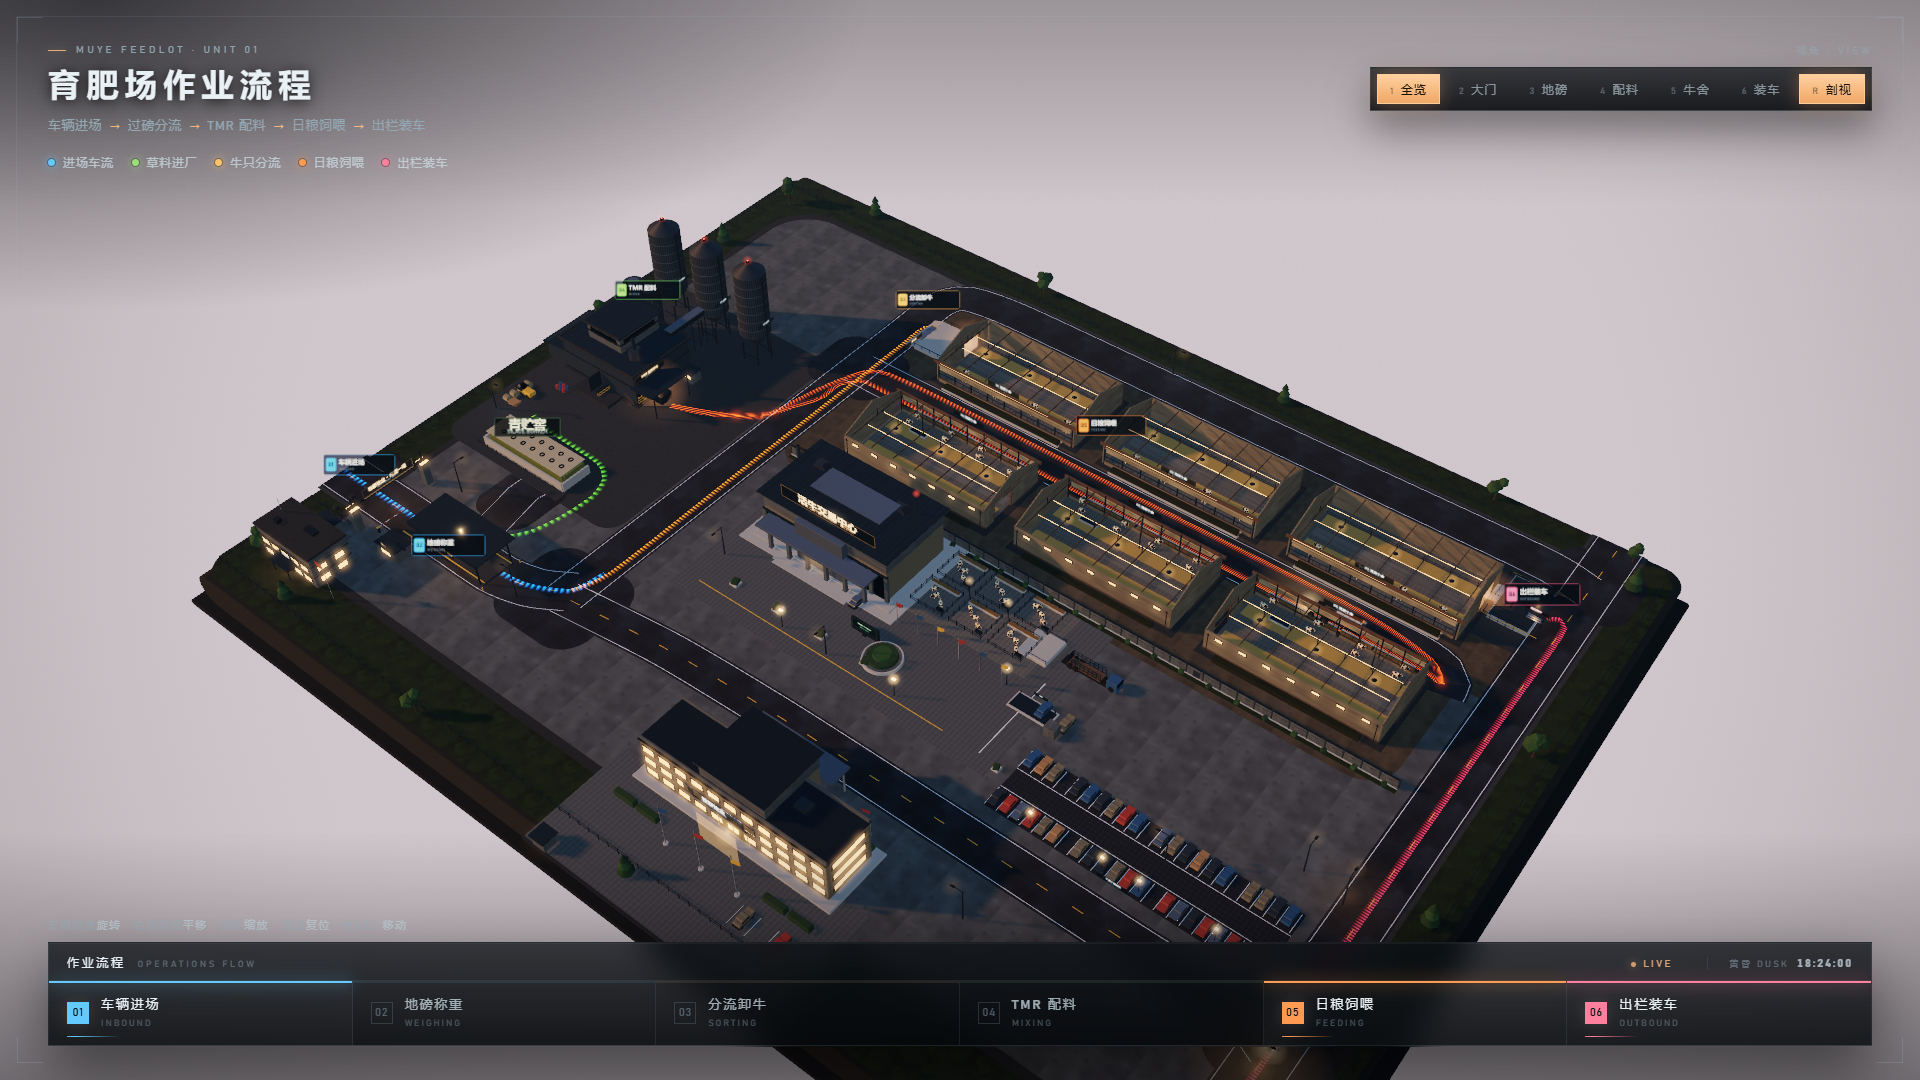
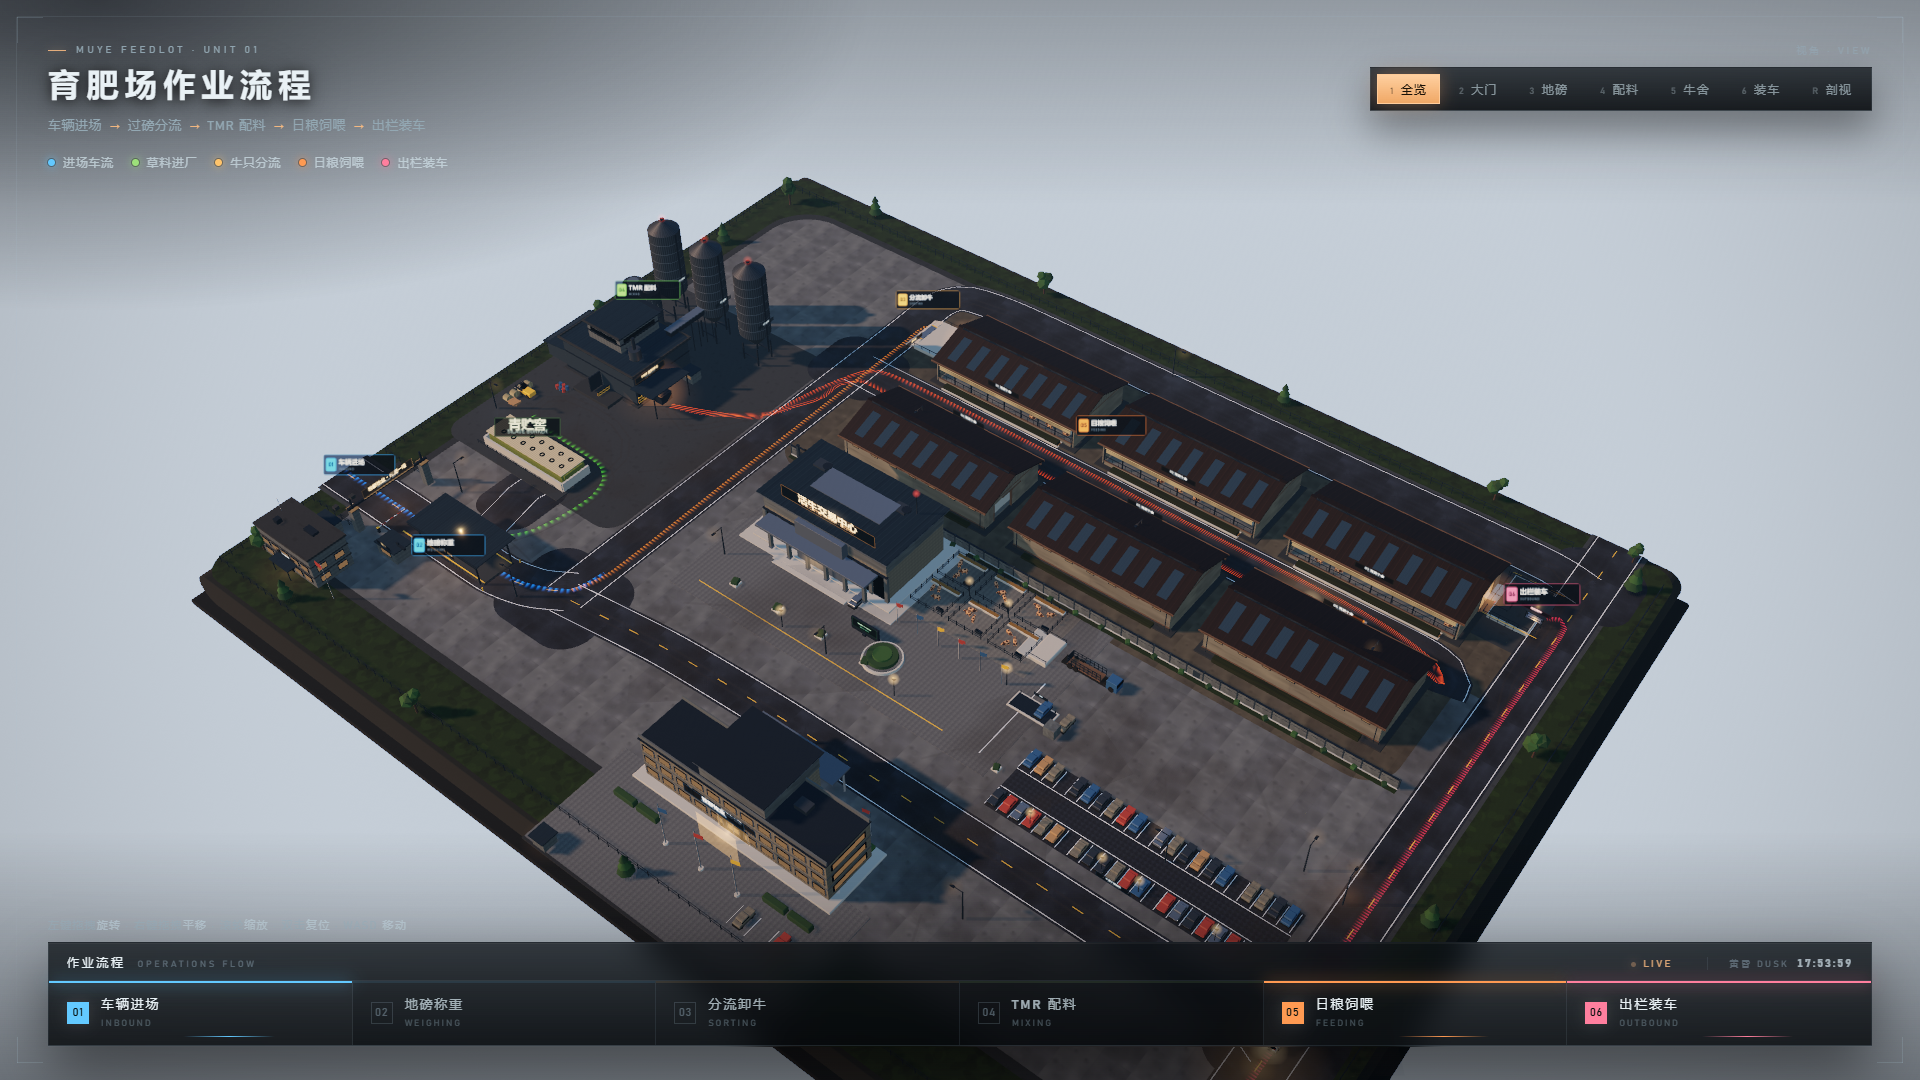
feat: 幽灵屋顶 + 场院使用痕迹
- 剖视改成半透明屋顶（不再是直接隐藏），屋顶仍投影，舍内保持应有的暗度；
  屋顶材质先克隆一份专用，避免影响其他建筑
- 默认盖屋顶（完整建筑群），R / 按钮切换剖视，?cut=1 直接剖视，?roof=1 强制实心
- 场院加脏迹斑块（程序化 canvas）+ 沿车辆路线的轮胎印，地面不再是一块干净水泥板
- 顺手修掉 frame 里引用 try 块内 const 的 ReferenceError（applyCut）

Changed region(s): [[0.125, 0.1833, 0.8125, 0.8556], [0.9375, 0.0611, 0.9688, 0.1222], [0.75, 0.6722, 0.7812, 0.7333]]

diff --git a/js/world.js b/js/world.js
@@ -165,6 +165,14 @@
     M.hay = S({ color: 0x9b8d6a, roughness: 1 });
     // 交易栏圈地面：浅灰垫层，跟黄褐色的牛拉开（原来是黄的，牛也黄，糊成一片）
     M.penPad = S({ map: T.concrete, color: 0xb3b3ad, roughness: 0.95 });
+    M.grunge = new THREE.MeshStandardMaterial({
+      map: T.grunge, transparent: true, opacity: 0.9, roughness: 1, metalness: 0,
+      depthWrite: false, polygonOffset: true, polygonOffsetFactor: -2, polygonOffsetUnits: -2,
+    });
+    M.track = new THREE.MeshStandardMaterial({
+      color: 0x2a251f, transparent: true, opacity: 0.20, roughness: 1, metalness: 0,
+      depthWrite: false, polygonOffset: true, polygonOffsetFactor: -2, polygonOffsetUnits: -2,
+    });
     M.barnPad = S({ map: T.concrete, color: 0xb0aea6, roughness: 0.96 });
     M.barnStraw = S({ color: 0x8d8574, roughness: 1 });
     M.bark = S({ color: 0x3a2c21, roughness: 0.95 });
@@ -229,6 +237,49 @@
     const wb = L.slots.weighbridge;
     for (let i = 0; i < 7; i++) {
       U.box(kit, M.yellow, 3.4, 0.02, 0.34, wb.x - 15, 0.242, wb.z - 6 + i * 2, 0, 0, 0);
+    }
+  }
+
+  // 场院的"使用痕迹"：脏迹斑块 + 轮胎印
+  function buildWear(kit, M, world) {
+    const rand = U.rng(8823);
+    const quad = function (w, d, x, z, rot, mat, y) {
+      const g = new THREE.PlaneGeometry(w, d);
+      g.rotateX(-Math.PI / 2);
+      kit.add(g, mat, U.mat4(x, y, z, 0, rot, 0));
+    };
+
+    // 脏迹：散在牛舍条带与场院里的大块暗斑
+    const spots = [
+      [-60, 8, 44, 30], [10, -6, 52, 34], [70, 10, 46, 32], [96, -30, 40, 30],
+      [-20, 34, 50, 36], [40, 30, 44, 28], [-96, 20, 34, 26], [110, 34, 38, 26],
+      [24, -50, 40, 26], [-44, -52, 36, 24], [86, -52, 38, 24], [52, 58, 46, 30],
+    ];
+    for (let i = 0; i < spots.length; i++) {
+      const sp = spots[i];
+      quad(sp[2], sp[3], sp[0], sp[1], rand() * Math.PI * 2, M.grunge, 0.2125);
+    }
+
+    // 轮胎印：沿每条车辆路线铺两条细带（只铺场地内的段）
+    const R = L.routes;
+    const names = Object.keys(R);
+    for (const nm of names) {
+      const pts = R[nm];
+      for (let k = 0; k < pts.length - 1; k++) {
+        const a = pts[k], b = pts[k + 1];
+        if (a.x < -124 || a.x > 122 || a.z < -92 || a.z > 88) continue;
+        if (b.x < -124 || b.x > 122 || b.z < -92 || b.z > 88) continue;
+        const dx = b.x - a.x, dz = b.z - a.z;
+        const len = Math.hypot(dx, dz);
+        if (len < 1.2 || len > 40) continue;
+        const ang = Math.atan2(dx, dz);
+        const nx = (dz / len), nz = (-dx / len);
+        for (const sgn of [-0.86, 0.86]) {
+          const cx = (a.x + b.x) / 2 + nx * sgn;
+          const cz = (a.z + b.z) / 2 + nz * sgn;
+          quad(0.46, len, cx, cz, ang, M.track, 0.2135);
+        }
+      }
     }
   }
 
@@ -630,6 +681,7 @@
     buildGround(kit, M);
     buildRoads(kit, M, world);
     buildFlows(kit, M, world);
+    buildWear(kit, M, world);
     buildFences(kit, M);
     FL.buildBuildings(kit, M, world);
     buildProps(kit, M, world);

diff --git a/js/main.js b/js/main.js
@@ -77,6 +77,7 @@
   const camera = new THREE.PerspectiveCamera(36, root.innerWidth / Math.max(1, root.innerHeight), 4, 3400);
 
   let world, fleet, rig, pipe, ui, sky, day, herd;
+  let cutUpdate = null;   // 幽灵屋顶的每帧插值（在 try 块里赋值，frame 在外面用）
   try {
     FL.createEnvironment(scene, renderer);
     world = FL.buildWorld(scene);
@@ -92,16 +93,45 @@
     pipe = FL.createPipeline(renderer, { enabled: fxOn });
     day = FL.createDay(scene, world, sky, pipe);
     ui = uiOn ? FL.createUI(fleet, rig) : { update: function () {}, reveal: function () {}, setCutaway: function () {}, onCutaway: function () {} };
-    // 剖视：默认收起牛舍屋顶（?roof=1 保留屋顶），与 UI 是否开启无关
-    const cutOn = q.get('roof') !== '1';
+    // 剖视 = 幽灵屋顶：屋顶不消失，而是淡成半透明，既保住体量又能看见舍内
+    // 屋顶材质和其他建筑共用，先克隆一份专用，避免整场跟着变透明
+    const roofMats = [];
+    if (world.barnRoofs) {
+      const swap = new Map();
+      world.barnRoofs.traverse(function (o) {
+        if (!o.isMesh || !o.material) return;
+        let cl = swap.get(o.material);
+        if (!cl) {
+          cl = o.material.clone();
+          cl.transparent = true;
+          cl.opacity = 1;
+          swap.set(o.material, cl);
+          roofMats.push(cl);
+        }
+        o.material = cl;
+        o.castShadow = true;      // 半透明也照样投影，舍内才是暗的
+      });
+    }
+    let roofGhost = 0;
+    let roofGhostTarget = 0;
+    const cutOn = q.get('cut') === '1';   // 默认盖屋顶；?cut=1 直接进剖视
     const applyCut = function (cut) {
-      if (world.barnRoofs) world.barnRoofs.visible = !cut;
-      // 屋顶收起时舍内失去遮蔽：把舍内地面压暗，读起来才像"室内"
-      const M = world.mats || {};
-      if (M.barnPad) M.barnPad.color.setHex(cut ? 0x6d6b64 : 0xb0aea6);
-      if (M.barnStraw) M.barnStraw.color.setHex(cut ? 0x665f50 : 0x8d8574);
+      roofGhostTarget = cut ? 1 : 0;
+      if (world.barnRoofs) world.barnRoofs.visible = true;
     };
     applyCut(cutOn);
+    cutUpdate = function (dt) {
+      roofGhost += (roofGhostTarget - roofGhost) * Math.min(1, dt * 4.0);
+      if (!roofMats.length) return;
+      const o = 1 - 0.76 * roofGhost;
+      const solid = roofGhost < 0.12;
+      for (let i = 0; i < roofMats.length; i++) {
+        const m = roofMats[i];
+        m.opacity = o;
+        m.depthWrite = solid;
+        m.needsUpdate = false;
+      }
+    };
     if (ui.onCutaway) {
       ui.onCutaway(applyCut);
       ui.setCutaway(cutOn);
@@ -140,6 +170,7 @@
     const dt = Math.min(Math.max(0, (now - last) / 1000), 0.05);
     last = now;
     if (fixed == null) simTime += dt;
+    if (cutUpdate) cutUpdate(dt);
 
     for (let i = 0; i < world.flows.length; i++) {
       world.flows[i].mat.uniforms.uTime.value = simTime;

diff --git a/js/utils.js b/js/utils.js
@@ -109,6 +109,40 @@
     return c;
   }
 
+  // 场院脏迹：透明的深色斑块，叠在地面上当"用旧了"的痕迹
+  function grunge() {
+    const S = 256;
+    const c = makeCanvas(S);
+    const ctx = c.getContext('2d');
+    const rand = U.rng(4177);
+    ctx.clearRect(0, 0, S, S);
+    for (let i = 0; i < 46; i++) {
+      const x = rand() * S, y = rand() * S;
+      const r = 8 + rand() * 46;
+      const a = 0.06 + rand() * 0.16;
+      const g = ctx.createRadialGradient(x, y, 0, x, y, r);
+      g.addColorStop(0, 'rgba(38,32,25,' + a.toFixed(3) + ')');
+      g.addColorStop(0.55, 'rgba(40,34,27,' + (a * 0.55).toFixed(3) + ')');
+      g.addColorStop(1, 'rgba(40,34,27,0)');
+      ctx.fillStyle = g;
+      ctx.beginPath();
+      ctx.arc(x, y, r, 0, Math.PI * 2);
+      ctx.fill();
+    }
+    // 几道擦痕
+    for (let i = 0; i < 9; i++) {
+      const x = rand() * S, y = rand() * S;
+      const len = 30 + rand() * 90, ang = rand() * Math.PI;
+      ctx.strokeStyle = 'rgba(34,29,23,' + (0.05 + rand() * 0.09).toFixed(3) + ')';
+      ctx.lineWidth = 1 + rand() * 3.5;
+      ctx.beginPath();
+      ctx.moveTo(x, y);
+      ctx.lineTo(x + Math.cos(ang) * len, y + Math.sin(ang) * len);
+      ctx.stroke();
+    }
+    return c;
+  }
+
   function concrete() {
     const S = 512;
     const c = makeCanvas(S);
@@ -271,6 +305,7 @@
     const T = U.textures;
     if (T.ready) return T;
     T.asphalt = makeTexture(asphalt(), { repeat: [1, 1] });
+    T.grunge = makeTexture(grunge(), { repeat: [1, 1], transparent: true });
     T.concrete = makeTexture(concrete(), { repeat: [1, 1] });
     T.concreteDark = makeTexture(concreteDark(), { repeat: [1, 1] });
     T.grass = makeTexture(grass(), { repeat: [8, 8] });

diff --git a/README.md b/README.md
@@ -32,7 +32,9 @@ python -m http.server 8080
 
 ## 剖视
 
-牛舍屋顶可以收起来（默认收起），露出舍内的屋架、料槽、垫料和牛——从鸟瞰角度看一栋"屋子"是看不清的，剖视是唯一能同时保留俯视与内部信息的办法。
+**默认盖着屋顶**（完整建筑群）；按 `R` 或点右上角「剖视」，牛舍屋顶会淡成**半透明**（不是消失），既保住了体量，又能看见舍内的屋架、采食带、垫料休息区和牛。从鸟瞰角度看一栋"屋子"是看不清的，幽灵屋顶是同时保留俯视与内部信息的折中办法。
+
+网址参数：`?cut=1` 直接进入剖视，`?roof=1` 强制实心屋顶。
 
 - 右上角 **R 剖视** 按钮，或直接按 **R** 切换
 - `?roof=1` 打开页面时保留屋顶（默认收起）
@@ -51,6 +53,7 @@ python -m http.server 8080
 
 ## 场景里有什么
 
+- **场院**：地面不是一块干净的水泥板——牛舍条带铺压实土，场院里叠了使用痕迹（脏迹斑块）和沿车辆路线铺的**轮胎印**，让地面有"被用过"的层次。
 - **园区**：254×194 米地块，有厚度的地台（不是无限网格），**六栋育肥牛舍**（三栋朝南、三栋隔着日粮道朝北；屋脊百叶通风器 + 每跨采光带，南北两排屋面颜色分开，前脸卷帘半开露出料槽与颈夹，舍内有灯带和牛；门洞暖光、背面高位通风格栅）、卸牛台、地磅与磅房、大门门卫、综合楼、TMR 配料中心 + 三只原料筒仓 + 青贮窖（覆膜 + 压胎）、出栏装车台、路灯、树。
 - **生产区与交易区**：一道 2.4 米高的围墙把牛舍区隔开，留一处车行大门（挂着"生产区 · 谢绝参观"）和一处人行小门；围墙南侧是**活牛交易中心**——玻璃幕墙的交易大厅（行情屏写着当日活牛价与成交头数）、六格待售栏（料槽、水槽、栏间过道灯）、装牛台和一辆停着的活牛车、交易地磅、四个彩色雨棚摊位、彩旗和中央花池；交易中心东侧是**员工停车场**（两排车位、四十来台车、四盏车位灯），大厅门口还有几台临停；南侧临路是三层**员工办公楼**（中部塔楼 + 通高中庭 + 柱廊，双面开窗，夜里整栋亮着）。
 - **牛**：66 头（交易栏 18 + 六栋牛舍舍内各 8），西门塔尔那样的黄褐白花。
